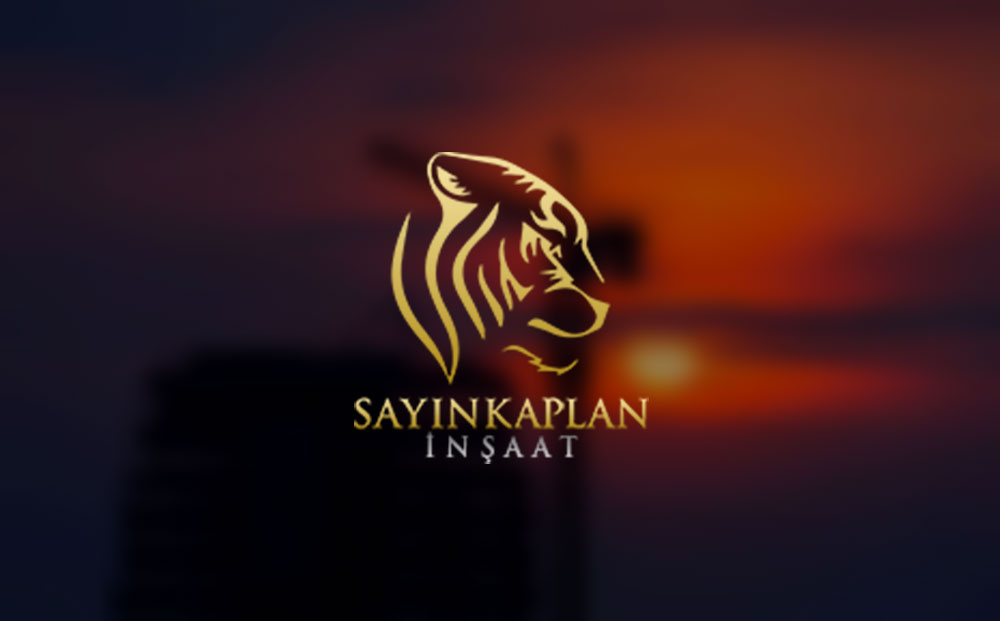
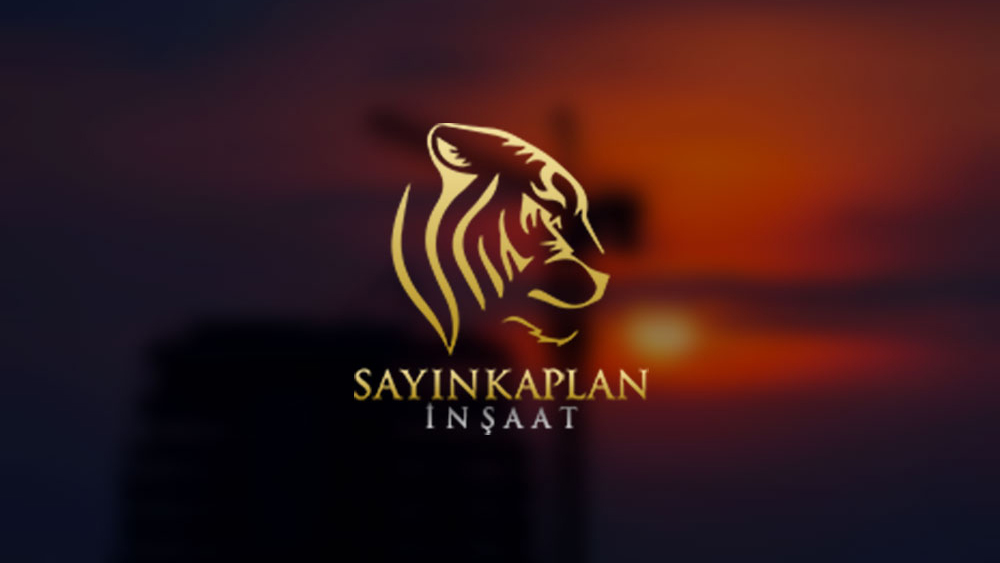
Sayınkaplan Portfolio

diff --git a/index.html b/index.html
@@ -118,11 +118,11 @@
 
                         <div class="col-md-4 col-sm-6 masonry-item project" data-filter="Animals">
                             <div class="image-tile inner-title hover-reveal text-center">
-                                <a href="https://pasabalik.net">
-                                    <img alt="Pic" src="img/lw/pasabalik.jpg" />
+                                <a href="https://sayinkaplan.com">
+                                    <img alt="Pic" src="img/lw/sayinkaplan.jpg" />
                                     <div class="title">
-                                        <h5 class="uppercase mb0">Paşa Balık</h5>
-                                        <span>Yerel İşyeri</span>
+                                        <h5 class="uppercase mb0">Sayınkaplan İnşaat</h5>
+                                        <span>İnşaat Şirketi</span>
                                     </div>
                                 </a>
                             </div>
